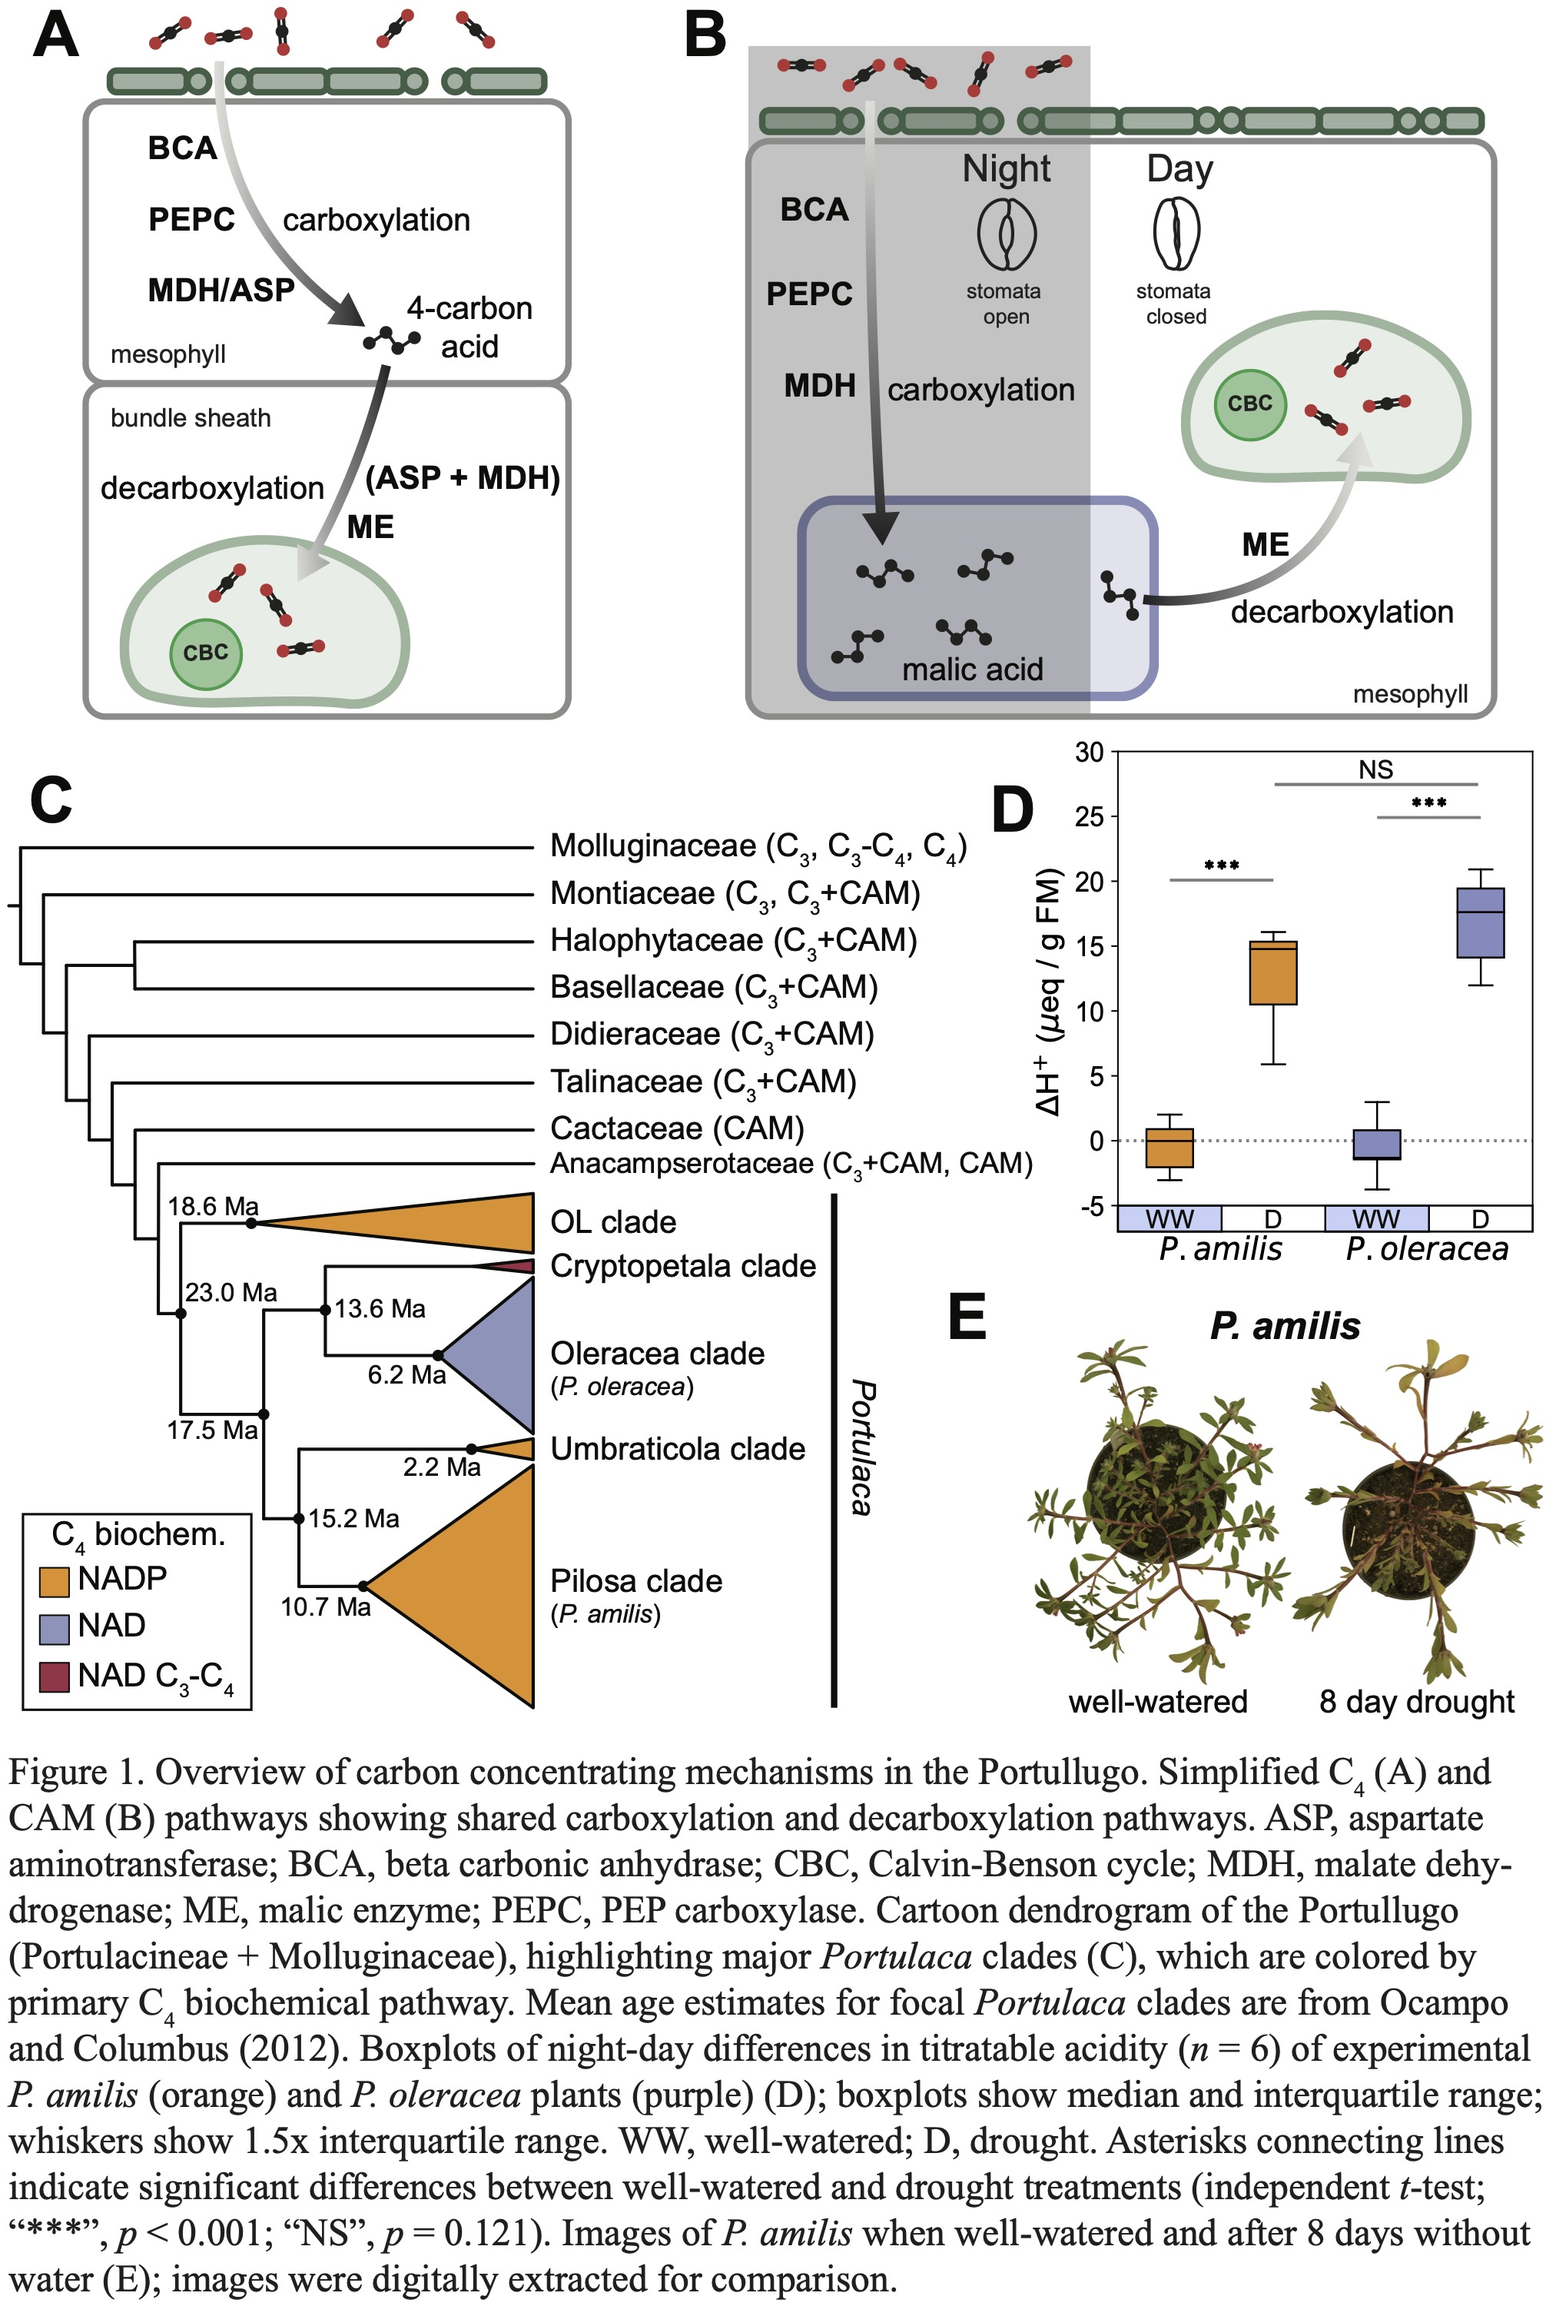
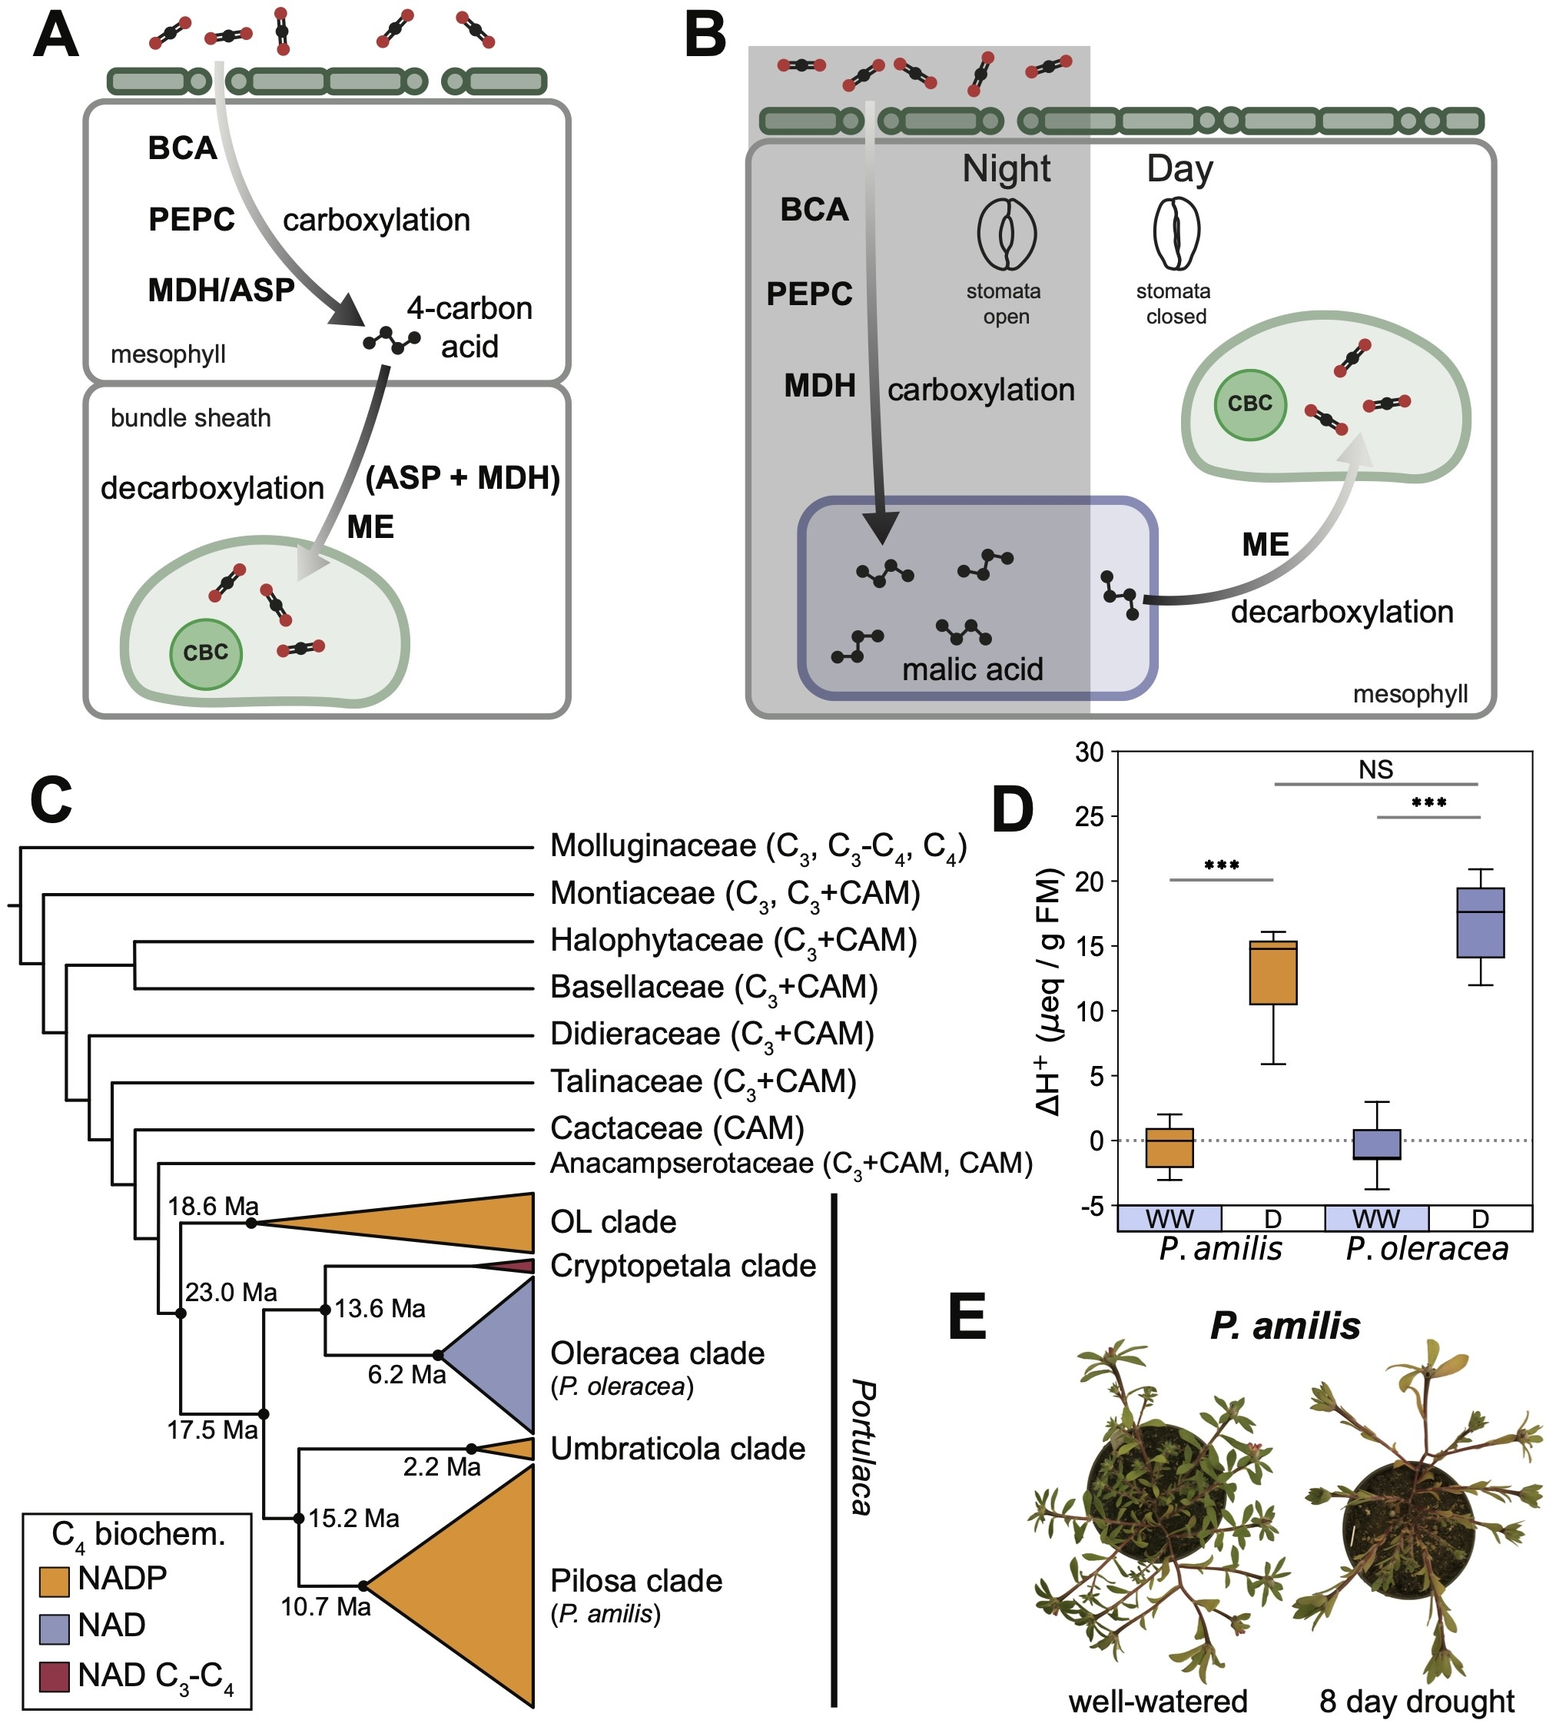
update site
Site wide updates; posts, cv, project images

Changed region(s): [[0.0, 0.0, 0.9956, 1.0]]

diff --git a/_news/2025-12-22-new-job.md b/_news/2025-12-22-new-job.md
@@ -1,0 +1,7 @@
+layout: post
+date: 2026-04-20 12:00:00-0400
+inline: true
+related_posts: false
+---
+
+The Plant Resilience Institue at Michigan State awarded a seed grant to me and VanBuren Lab PhD candidate Jenny Schuster. Our project "Defining transcriptional cell states in desiccation tolerant plants with spatial RNAseq" will leverage a new 10X Visium machine at the RTSF Genomics Core to integrate spatial RNAseq into our single cell research on desiccation tolerant plants.

diff --git a/_projects/1_photosynthetic-omics.md b/_projects/1_photosynthetic-omics.md
@@ -2,7 +2,7 @@
 layout: page
 title: Gene regulation of CAM & C4 photosynthesis
 description: Single-nuclei sequencing of the regulatory architecture behind integrated C4+CAM photosynthesis in <em>Portulaca</em>.
-img: assets/img/project-photosynthetic-omics.png
+img: assets/img/Portulaca-amilis-C4+CAM.jpg
 importance: 1
 category:
 related_publications: true

diff --git a/_projects/3_phylogenomics.md b/_projects/3_phylogenomics.md
@@ -2,7 +2,7 @@
 layout: page
 title: Phylogenomics of Portullugo & beyond
 description: Methods for reconstructing evolutionary histories from phylogenomic and museum-specimen data.
-img: assets/img/project-phylogenomics.jpg
+img: assets/img/Transition-Rates-Supplementary-Figure-S8.jpg
 importance: 3
 category:
 related_publications: true

diff --git a/_news/2026-04-20-seed-grant.md b/_news/2026-04-20-seed-grant.md
@@ -1,0 +1,7 @@
+layout: post
+date: 2025-12-2 12:00:00-0400
+inline: true
+related_posts: false
+---
+
+I accepted a position to join the [Biology Department at Fairfield University](https://www.fairfield.edu/academics/majors-and-minors/biology/) next fall as an assistant professor!.

diff --git a/_projects/2_pelargonium.md b/_projects/2_pelargonium.md
@@ -2,6 +2,7 @@
 layout: page
 title: Pelargonium CAM genome project
 description: Investigating the genetic basis of CAM in southern African <em>Pelargonium</em> species.
+img: assets/img/project-photosynthetic-omics.png
 importance: 2
 category:
 ---
